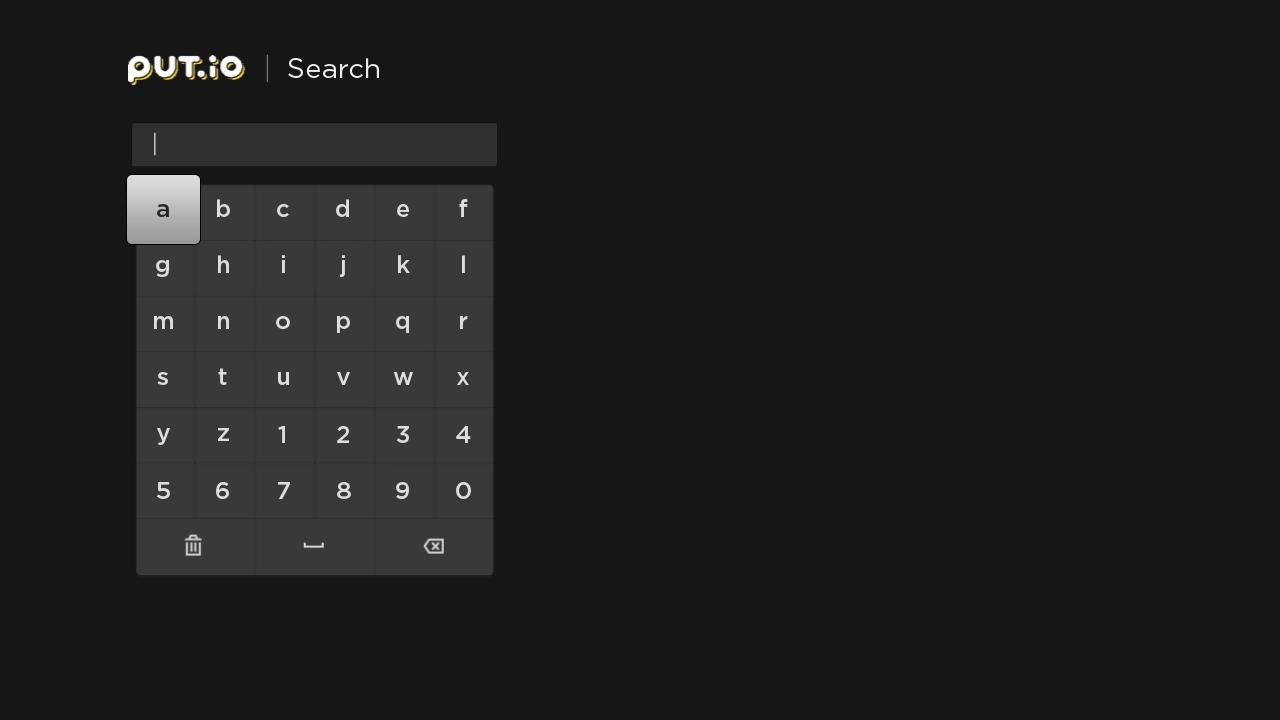
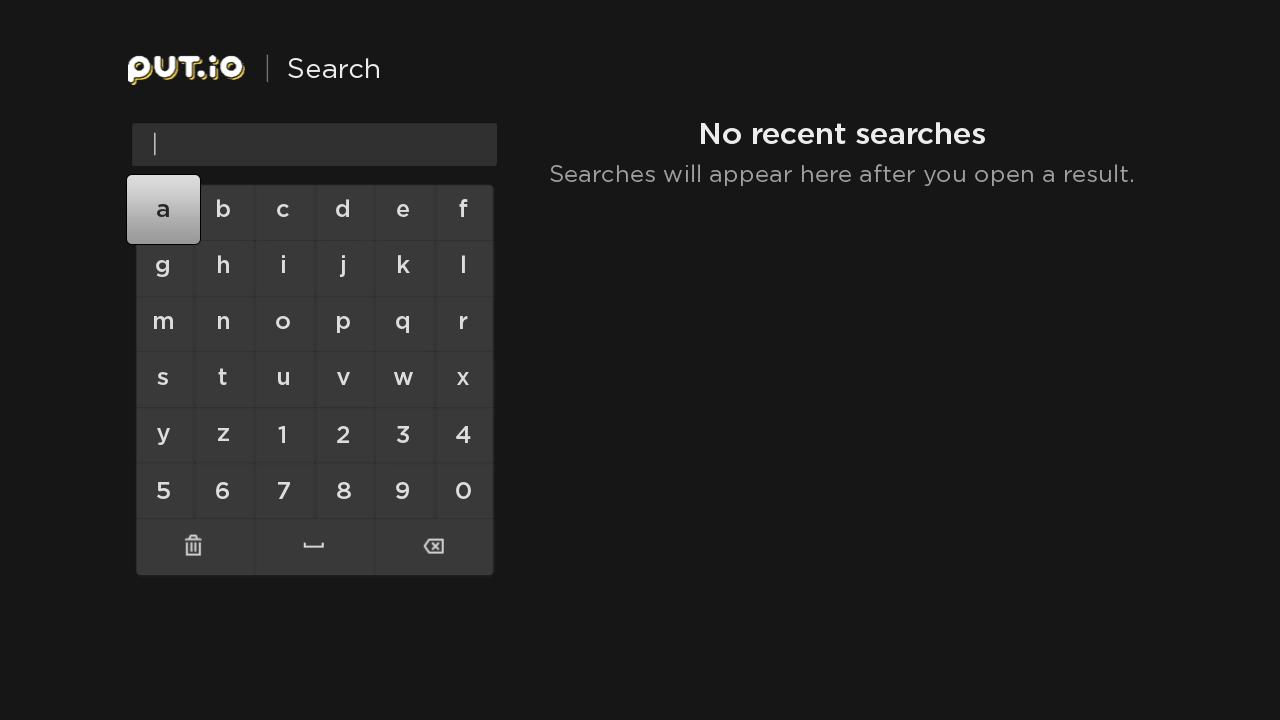
feat(roku): add shared empty states

Changed region(s): [[0.4375, 0.1528, 0.7812, 0.275], [0.7812, 0.2139, 0.875, 0.275], [0.7188, 0.2444, 0.7812, 0.275]]

diff --git a/.vref/index.html b/.vref/index.html
@@ -117,6 +117,7 @@
   .container:has(#filter-group-search:checked) #gallery .card:not([data-group="search"]) { display: none; }
   .container:has(#filter-tag-app-dialog:checked) #gallery .card:not([data-tags~="app-dialog"]) { display: none; }
   .container:has(#filter-tag-dialog:checked) #gallery .card:not([data-tags~="dialog"]) { display: none; }
+  .container:has(#filter-tag-empty:checked) #gallery .card:not([data-tags~="empty"]) { display: none; }
   .container:has(#filter-tag-files:checked) #gallery .card:not([data-tags~="files"]) { display: none; }
   .container:has(#filter-tag-focus:checked) #gallery .card:not([data-tags~="focus"]) { display: none; }
   .container:has(#filter-tag-home:checked) #gallery .card:not([data-tags~="home"]) { display: none; }
@@ -285,7 +286,7 @@
 <div class="container">
   <div class="hero">
     <h1>put<span>.</span>io Roku visual reference</h1>
-    <p>17 curated Roku references for quick visual review.</p>
+    <p>18 curated Roku references for quick visual review.</p>
   </div>
   <div class="filters">
     <div class="filter-row">
@@ -294,10 +295,10 @@
     </div>
     <div class="filter-row">
       <span class="filter-label">Tag</span>
-      <div class="filter-group"><label class="nav-btn" data-filter-group="tag" data-filter-value="all"><input class="filter-control" type="radio" name="filter-tag" id="filter-tag-all" checked><span>All</span></label><label class="nav-btn" data-filter-group="tag" data-filter-value="app-dialog"><input class="filter-control" type="radio" name="filter-tag" id="filter-tag-app-dialog"><span>app-dialog</span></label><label class="nav-btn" data-filter-group="tag" data-filter-value="dialog"><input class="filter-control" type="radio" name="filter-tag" id="filter-tag-dialog"><span>dialog</span></label><label class="nav-btn" data-filter-group="tag" data-filter-value="files"><input class="filter-control" type="radio" name="filter-tag" id="filter-tag-files"><span>files</span></label><label class="nav-btn" data-filter-group="tag" data-filter-value="focus"><input class="filter-control" type="radio" name="filter-tag" id="filter-tag-focus"><span>focus</span></label><label class="nav-btn" data-filter-group="tag" data-filter-value="home"><input class="filter-control" type="radio" name="filter-tag" id="filter-tag-home"><span>home</span></label><label class="nav-btn" data-filter-group="tag" data-filter-value="keyboard"><input class="filter-control" type="radio" name="filter-tag" id="filter-tag-keyboard"><span>keyboard</span></label><label class="nav-btn" data-filter-group="tag" data-filter-value="lab"><input class="filter-control" type="radio" name="filter-tag" id="filter-tag-lab"><span>lab</span></label><label class="nav-btn" data-filter-group="tag" data-filter-value="list"><input class="filter-control" type="radio" name="filter-tag" id="filter-tag-list"><span>list</span></label><label class="nav-btn" data-filter-group="tag" data-filter-value="player"><input class="filter-control" type="radio" name="filter-tag" id="filter-tag-player"><span>player</span></label><label class="nav-btn" data-filter-group="tag" data-filter-value="progress"><input class="filter-control" type="radio" name="filter-tag" id="filter-tag-progress"><span>progress</span></label><label class="nav-btn" data-filter-group="tag" data-filter-value="search"><input class="filter-control" type="radio" name="filter-tag" id="filter-tag-search"><span>search</span></label><label class="nav-btn" data-filter-group="tag" data-filter-value="subtitles"><input class="filter-control" type="radio" name="filter-tag" id="filter-tag-subtitles"><span>subtitles</span></label><label class="nav-btn" data-filter-group="tag" data-filter-value="track-menu"><input class="filter-control" type="radio" name="filter-tag" id="filter-tag-track-menu"><span>track-menu</span></label></div>
+      <div class="filter-group"><label class="nav-btn" data-filter-group="tag" data-filter-value="all"><input class="filter-control" type="radio" name="filter-tag" id="filter-tag-all" checked><span>All</span></label><label class="nav-btn" data-filter-group="tag" data-filter-value="app-dialog"><input class="filter-control" type="radio" name="filter-tag" id="filter-tag-app-dialog"><span>app-dialog</span></label><label class="nav-btn" data-filter-group="tag" data-filter-value="dialog"><input class="filter-control" type="radio" name="filter-tag" id="filter-tag-dialog"><span>dialog</span></label><label class="nav-btn" data-filter-group="tag" data-filter-value="empty"><input class="filter-control" type="radio" name="filter-tag" id="filter-tag-empty"><span>empty</span></label><label class="nav-btn" data-filter-group="tag" data-filter-value="files"><input class="filter-control" type="radio" name="filter-tag" id="filter-tag-files"><span>files</span></label><label class="nav-btn" data-filter-group="tag" data-filter-value="focus"><input class="filter-control" type="radio" name="filter-tag" id="filter-tag-focus"><span>focus</span></label><label class="nav-btn" data-filter-group="tag" data-filter-value="home"><input class="filter-control" type="radio" name="filter-tag" id="filter-tag-home"><span>home</span></label><label class="nav-btn" data-filter-group="tag" data-filter-value="keyboard"><input class="filter-control" type="radio" name="filter-tag" id="filter-tag-keyboard"><span>keyboard</span></label><label class="nav-btn" data-filter-group="tag" data-filter-value="lab"><input class="filter-control" type="radio" name="filter-tag" id="filter-tag-lab"><span>lab</span></label><label class="nav-btn" data-filter-group="tag" data-filter-value="list"><input class="filter-control" type="radio" name="filter-tag" id="filter-tag-list"><span>list</span></label><label class="nav-btn" data-filter-group="tag" data-filter-value="player"><input class="filter-control" type="radio" name="filter-tag" id="filter-tag-player"><span>player</span></label><label class="nav-btn" data-filter-group="tag" data-filter-value="progress"><input class="filter-control" type="radio" name="filter-tag" id="filter-tag-progress"><span>progress</span></label><label class="nav-btn" data-filter-group="tag" data-filter-value="search"><input class="filter-control" type="radio" name="filter-tag" id="filter-tag-search"><span>search</span></label><label class="nav-btn" data-filter-group="tag" data-filter-value="subtitles"><input class="filter-control" type="radio" name="filter-tag" id="filter-tag-subtitles"><span>subtitles</span></label><label class="nav-btn" data-filter-group="tag" data-filter-value="track-menu"><input class="filter-control" type="radio" name="filter-tag" id="filter-tag-track-menu"><span>track-menu</span></label></div>
     </div>
   </div>
-  <div class="results-count">17 references &middot; Updated May 20, 2026</div>
+  <div class="results-count">18 references &middot; Updated May 20, 2026</div>
   <div class="grid" id="gallery">
     <a class="card" href="screenshots/roku-720p/home.jpg" aria-label="Home screenshot" data-card data-title="Home" data-platform="roku" data-group="main-pages" data-tags="home navigation">
       <img class="preview" src="screenshots/roku-720p/home.jpg" alt="" loading="lazy">
@@ -349,13 +350,23 @@
         </div>
       </div>
     </a>
-    <a class="card" href="screenshots/roku-720p/search-empty.jpg" aria-label="Search empty screenshot" data-card data-title="Search empty" data-platform="roku" data-group="main-pages" data-tags="search keyboard">
+    <a class="card" href="screenshots/roku-720p/search-empty.jpg" aria-label="Search empty screenshot" data-card data-title="Search empty" data-platform="roku" data-group="main-pages" data-tags="search keyboard empty">
       <img class="preview" src="screenshots/roku-720p/search-empty.jpg" alt="" loading="lazy">
       <div class="card-body">
         <div class="item-info">
           <div class="item-name">Search empty</div>
-          <div class="item-meta"><span>Main pages</span><span>1280x720 / 27 KB</span></div>
-          <div class="item-tags"><span class="tag">search</span><span class="tag">keyboard</span></div>
+          <div class="item-meta"><span>Main pages</span><span>1280x720 / 33 KB</span></div>
+          <div class="item-tags"><span class="tag">search</span><span class="tag">keyboard</span><span class="tag">empty</span></div>
+        </div>
+      </div>
+    </a>
+    <a class="card" href="screenshots/roku-720p/search-no-results.jpg" aria-label="Search no results screenshot" data-card data-title="Search no results" data-platform="roku" data-group="search" data-tags="search keyboard empty">
+      <img class="preview" src="screenshots/roku-720p/search-no-results.jpg" alt="" loading="lazy">
+      <div class="card-body">
+        <div class="item-info">
+          <div class="item-name">Search no results</div>
+          <div class="item-meta"><span>Search</span><span>1280x720 / 32 KB</span></div>
+          <div class="item-tags"><span class="tag">search</span><span class="tag">keyboard</span><span class="tag">empty</span></div>
         </div>
       </div>
     </a>